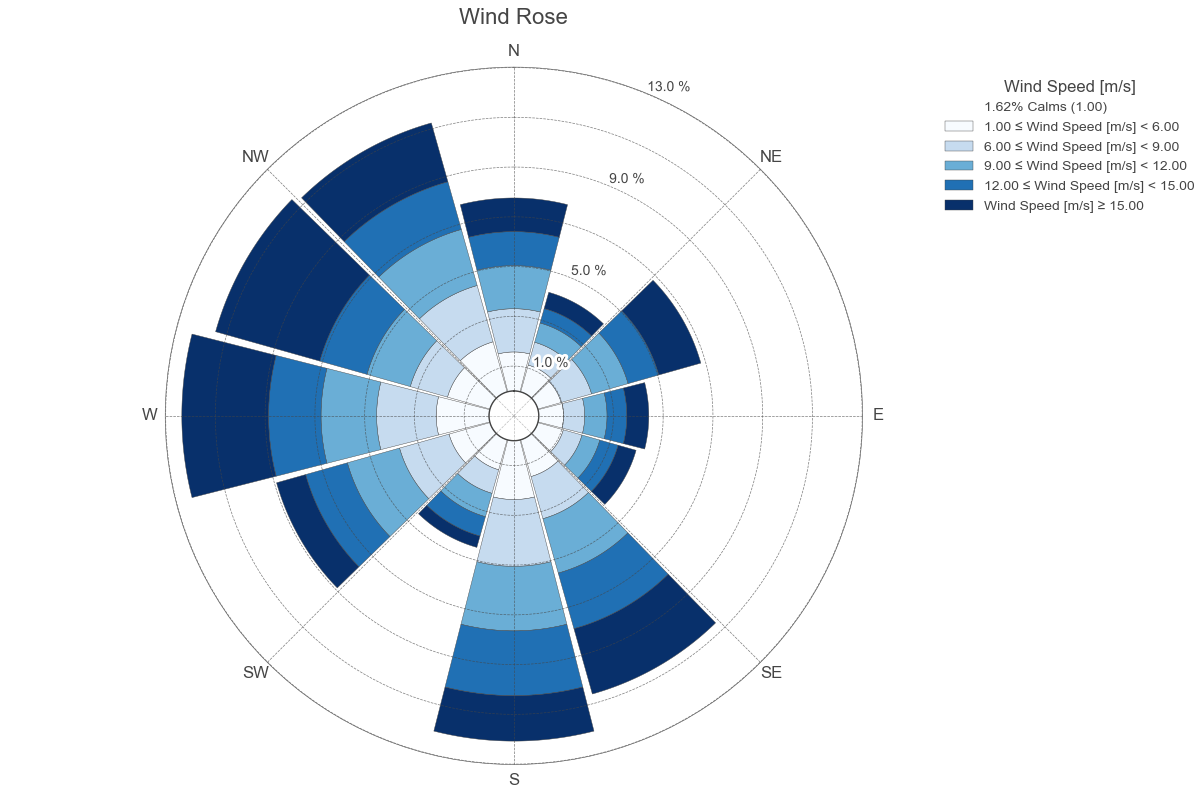
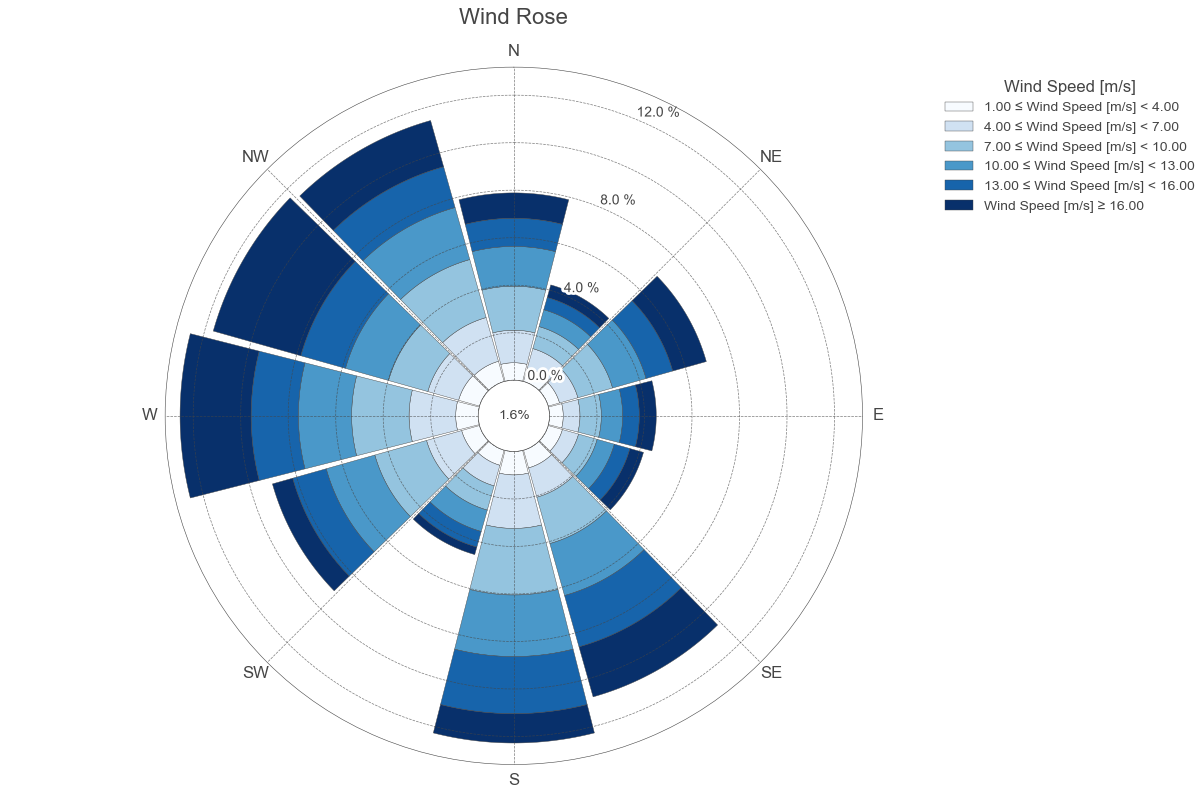
rose_plot update

diff --git a/coastlib/plotting/rose.py b/coastlib/plotting/rose.py
@@ -25,8 +25,6 @@ def get_rose_parameters(
         Matplotlib colormap (default=plt.get_cmap('viridis')).
     center_on_north : bool, optional
         If True, first bin has its center on North. If False, first bin has its start on North (default=True).
-    calm_size : float, optional
-        Size of calm region in percent (defaul=1).
     calm_value : float, optional
         Value defining calm region. All values smaller than this value are placed into the calm region (default=None).
         Must not be larger than smallest value in value_bin_boundaries.
@@ -116,10 +114,8 @@ def get_rose_parameters(
         len(fixed_values)
     ), 'Number of binned values in bar bottoms is not equal to total number of adjusted values'
     calm_percentage = calm_count / len(values) * 100
-    radii = binned / len(values) * 100
-    bottoms = bottom_counts / len(values) * 100
-    if calm_size is not None:
-        bottoms += calm_size
+    radii = binned / len(fixed_values) * 100
+    bottoms = bottom_counts / len(fixed_values) * 100
 
     # Get colors for each value bin
     colors = np.array([cmap(i) for i in np.linspace(0.0, 1.0, radii.shape[0])])
@@ -129,7 +125,7 @@ def get_rose_parameters(
 
 def rose_plot(
         values, directions, value_bin_boundaries, n_dir_bins=12, cmap=plt.get_cmap('viridis'), rose_type='bar',
-        fig=None, ax=None, center_on_north=True, calm_size=1, calm_value=None, title='Rose Plot', value_name=None,
+        fig=None, ax=None, center_on_north=True, calm_size=None, calm_value=None, title='Rose Plot', value_name=None,
         rwidths=None, geomspace=False, **kwargs
 ):
     """
@@ -158,7 +154,7 @@ def rose_plot(
     center_on_north : bool, optional
         If True, first bin has its center on North. If False, first bin has its start on North (default=True).
     calm_size : float, optional
-        Size of calm region in percent (defaul=1).
+        Size of calm region in percent (defaul=None).
     calm_value : float, optional
         Value defining calm region. All values smaller than this value are placed into the calm region (default=None).
         Must not be larger than smallest value in value_bin_boundaries.
@@ -170,6 +166,8 @@ def rose_plot(
     rwidths : array_like or float, optional
         Widths of bars in each row (one value per row). If None, geomspace from 0.1 to 0.95 (default=None).
         If scalar value is passed (float), draws a regular rose plot with constant widths.
+    geomspace : bool, optional
+        If True, scales rwidths in geometric progression (default=False).
     bar_props : dict, optional
         Dictionary with keyword arguments passed to ax.bar object.
         Default=dict(edgecolor='k', linewidth=.3, zorder=-15)
@@ -215,8 +213,10 @@ def rose_plot(
 
     with plt.rc_context(rc=coastlib_rc):
         if fig is None and ax is None:
+            fig_created = True
             fig, ax = plt.subplots(figsize=(12, 8), subplot_kw=dict(projection='polar'))
         elif fig is not None and ax is not None:
+            fig_created = False
             if not hasattr(ax, 'set_theta_zero_location'):
                 raise ValueError('passed axes must have polar projection')
         else:
@@ -232,8 +232,11 @@ def rose_plot(
         theta, radii, bottoms, colors, p_calms, value_bin_boundaries = get_rose_parameters(
             values=values, directions=directions,
             value_bin_boundaries=value_bin_boundaries, n_dir_bins=n_dir_bins, cmap=cmap,
-            center_on_north=center_on_north, calm_size=calm_size, calm_value=calm_value
+            center_on_north=center_on_north, calm_value=calm_value
         )
+
+        if calm_size is None:
+            calm_size = p_calms
 
         if rwidths is None:
             if geomspace:
@@ -250,25 +253,19 @@ def rose_plot(
             f'{value_bin_boundaries[i]:.2f} ≤ {value_name} < {value_bin_boundaries[i + 1]:.2f}'
             for i in range(0, len(value_bin_boundaries) - 2)
         ]
-        bar_labels.extend(['{0} ≥ {1:.2f}'.format(value_name, value_bin_boundaries[-2])])
+        bar_labels.append(f'{value_name} ≥ {value_bin_boundaries[-2]:.2f}')
 
         # Draw calm region and add to legend
-        if calm_size is not None:
-            ax.bar(
-                0, calm_size, 2*np.pi, 0, color='#FFFFFF', zorder=10, alpha=.5
-            )
-            if calm_value is not None:
-                ax.bar(
-                    0, calm_size, 2*np.pi, 0, color='None', label=f'{p_calms:.2f}% Calms ({calm_value:.2f})'
-                )
-            else:
-                ax.bar(
-                    0, calm_size, 2*np.pi, 0, color='None',
-                    label=f'{p_calms:.2f}% Calms ({value_bin_boundaries[0]:.2f})'
-                )
-            ax.plot(
-                np.linspace(0, 2*np.pi, 100),
-                [calm_size]*100, lw=1, color='#454545', zorder=15
+        ax.set_rorigin(-calm_size)
+        if p_calms > 0:
+            # ax.bar(
+            #     0, 0, 2*np.pi, 0, color='None',
+            #     label=f'{p_calms:.2f}% Calms ({value_bin_boundaries[0]:.2f})'
+            # )
+            ax.text(
+                0, -calm_size, f'{p_calms:.1f}%',
+                horizontalalignment='center', verticalalignment='center',
+                fontsize=10, color='#454545', zorder=10
             )
 
         # Draw rose
@@ -312,7 +309,7 @@ def rose_plot(
                 edgecolor='#ffffff', title_fontsize=12
             )
         ax.set_title(title, fontsize=16)
-        if fig is not None:
+        if fig_created:
             fig.tight_layout()
 
         # Label y-axis (percentage)
@@ -320,19 +317,14 @@ def rose_plot(
         labels = []
         for i, item in enumerate(ax.get_yticklabels()):
             t = float(item.get_text())
-            if calm_size is not None:
-                t -= calm_size
-            if t < 0:
-                labels.append('')
-            else:
-                # If there are more than 6 labels, leave only odd labels
-                if len(ax.get_yticklabels()) > 6:
-                    if i % 2 != 0:
-                        labels.append('')
-                    else:
-                        labels.append(f'{t:.1f} %')
+            # If there are more than 6 labels, leave only odd labels
+            if len(ax.get_yticklabels()) > 6:
+                if i % 2 != 0:
+                    labels.append('')
                 else:
                     labels.append(f'{t:.1f} %')
+            else:
+                labels.append(f'{t:.1f} %')
         ax.set_yticklabels(
             labels,
             fontdict=dict(

diff --git a/tests/plotting/test_rose.py b/tests/plotting/test_rose.py
@@ -23,7 +23,7 @@ def test_get_rose_parameters_basic(wind_data):
     theta, radii, bottoms, colors, calm_percentage, value_bin_boundaries = get_rose_parameters(
         values=wind_data['s'].values, directions=wind_data['d'].values,
         value_bin_boundaries=np.arange(6, 18, 3), calm_value=3, n_dir_bins=6,
-        center_on_north=True, calm_size=1
+        center_on_north=True
     )
 
     assert np.isclose(calm_percentage, 6.656072526441932)
@@ -35,12 +35,12 @@ def test_get_rose_parameters_basic(wind_data):
     assert np.isclose(theta[0][-1], 5.235987755982988)
 
     assert radii.shape == (5, 6)
-    assert np.isclose(radii[0][0], 2.4416453915490024)
-    assert np.isclose(radii[0][-1], 2.808966810816443)
-    assert np.isclose(radii.mean(), 3.1114642491186024)
+    assert np.isclose(radii[0][0], 2.6157517233680334)
+    assert np.isclose(radii[0][-1], 3.009265719628255)
+    assert np.isclose(radii.mean(), 3.333333333333333)
 
-    assert np.isclose(radii.sum() + calm_percentage, 100)
-    assert np.isclose(bottoms[-1].sum() + radii[-1].sum() - bottoms[0].sum() + calm_percentage, 100)
+    assert np.isclose(radii.sum(), 100)
+    assert np.isclose(bottoms[-1].sum() + radii[-1].sum(), 100)
 
     assert np.isclose(colors.sum(), 11.528529)
     assert np.isclose(colors.mean(), 0.57642645)
@@ -50,7 +50,7 @@ def test_get_rose_parameters_custom(wind_data):
     theta, radii, bottoms, colors, calm_percentage, value_bin_boundaries = get_rose_parameters(
         values=wind_data['s'].values, directions=wind_data['d'].values,
         value_bin_boundaries=np.arange(6, 18, 3), calm_value=None, n_dir_bins=16,
-        center_on_north=False, calm_size=None
+        center_on_north=False
     )
 
     assert np.isclose(calm_percentage, 20.19942166414839)
@@ -62,12 +62,12 @@ def test_get_rose_parameters_custom(wind_data):
     assert np.isclose(theta[0][-1], 6.086835766330224)
 
     assert radii.shape == (4, 16)
-    assert np.isclose(radii[0][0], 0.7606940030219351)
-    assert np.isclose(radii[0][-1], 1.8099046527379772)
-    assert np.isclose(radii.mean(), 1.2468840364976814)
+    assert np.isclose(radii[0][0], 0.9532437218944086)
+    assert np.isclose(radii[0][-1], 2.268034506116919)
+    assert np.isclose(radii.mean(), 1.5625)
 
-    assert np.isclose(radii.sum() + calm_percentage, 100)
-    assert np.isclose(bottoms[-1].sum() + radii[-1].sum() - bottoms[0].sum() + calm_percentage, 100)
+    assert np.isclose(radii.sum(), 100)
+    assert np.isclose(bottoms[-1].sum() + radii[-1].sum(), 100)
 
     assert np.isclose(colors.sum(), 9.198019)
     assert np.isclose(colors.mean(), 0.5748761875)
@@ -88,8 +88,8 @@ def run_rose_plot(data, figname, **kwargs):
 def test_rose_plot_basic(wind_data):
     run_rose_plot(
         data=wind_data, figname='basic',
-        value_bin_boundaries=np.arange(6, 18, 3), n_dir_bins=12, cmap=plt.get_cmap('Blues'), rose_type='bar',
-        fig=None, ax=None, center_on_north=True, calm_size=1, calm_value=1, title='Wind Rose',
+        value_bin_boundaries=np.arange(1, 18, 3), n_dir_bins=12, cmap=plt.get_cmap('Blues'), rose_type='bar',
+        fig=None, ax=None, center_on_north=True, calm_size=1.5, title='Wind Rose',
         value_name='Wind Speed [m/s]', rwidths=None
     )
 
@@ -97,8 +97,8 @@ def test_rose_plot_basic(wind_data):
 def test_rose_plot_contour(wind_data):
     run_rose_plot(
         data=wind_data, figname='contour',
-        value_bin_boundaries=np.arange(6, 18, 3), n_dir_bins=12, cmap=plt.get_cmap('jet'), rose_type='contour',
-        fig=None, ax=None, center_on_north=True, calm_size=1, calm_value=3, title='Rose Plot Contourf',
+        value_bin_boundaries=np.arange(0, 18, 3), n_dir_bins=12, cmap=plt.get_cmap('jet'), rose_type='contour',
+        fig=None, ax=None, center_on_north=True, calm_size=None, title='Rose Plot Contourf',
         value_name='Wind Speed', rwidths=None
     )
 
@@ -106,8 +106,8 @@ def test_rose_plot_contour(wind_data):
 def test_rose_plot_contourf(wind_data):
     run_rose_plot(
         data=wind_data, figname='contourf',
-        value_bin_boundaries=np.arange(6, 18, 3), n_dir_bins=12, cmap=plt.get_cmap('viridis'), rose_type='contourf',
-        fig=None, ax=None, center_on_north=True, calm_size=1, calm_value=3, title='Rose Plot Contourf',
+        value_bin_boundaries=np.arange(0, 18, 3), n_dir_bins=12, cmap=plt.get_cmap('viridis'), rose_type='contourf',
+        fig=None, ax=None, center_on_north=True, calm_size=None, title='Rose Plot Contourf',
         value_name='Wind Speed', rwidths=None
     )
 
@@ -115,7 +115,7 @@ def test_rose_plot_contourf(wind_data):
 def test_rose_plot_bargeom(wind_data):
     run_rose_plot(
         data=wind_data, figname='bargeom',
-        value_bin_boundaries=np.arange(6, 22, 2), n_dir_bins=16, cmap=plt.get_cmap('magma'), rose_type='bar',
-        fig=None, ax=None, center_on_north=False, calm_size=1, calm_value=3, title='Rose Plot Geomspace',
+        value_bin_boundaries=np.arange(1, 22, 2), n_dir_bins=16, cmap=plt.get_cmap('magma'), rose_type='bar',
+        fig=None, ax=None, center_on_north=False, calm_size=1.5, title='Rose Plot Geomspace',
         value_name='Wind Speed', rwidths=None, geomspace=True
     )

diff --git a/docs/source/plotting.rst b/docs/source/plotting.rst
@@ -6,3 +6,16 @@ Tools related to data visualization are contained within the ``plotting`` packag
 .. code:: Python
 
     from coastlib import plotting
+
+Rose Plot
+=========
+
+.. code:: Python
+
+    from coastlib.plotting import rose_plot
+
+|rose_plot_1 Image| |rose_plot_2 Image|
+
+
+.. |rose_plot_1 Image| image:: ./example_images/rose_plot_1.png
+.. |rose_plot_2 Image| image:: ./example_images/rose_plot_2.png
